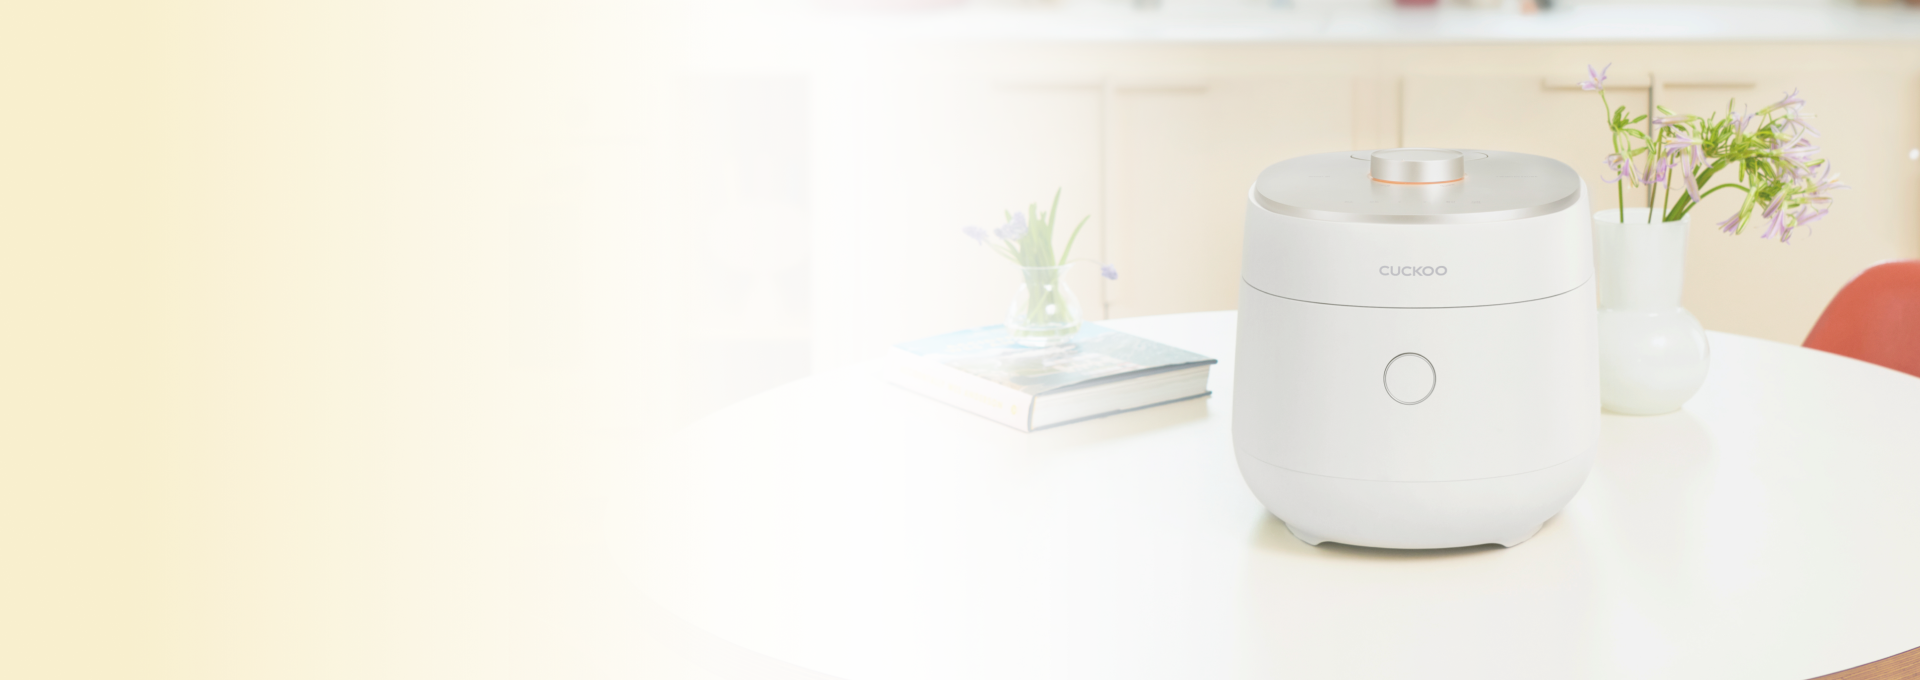
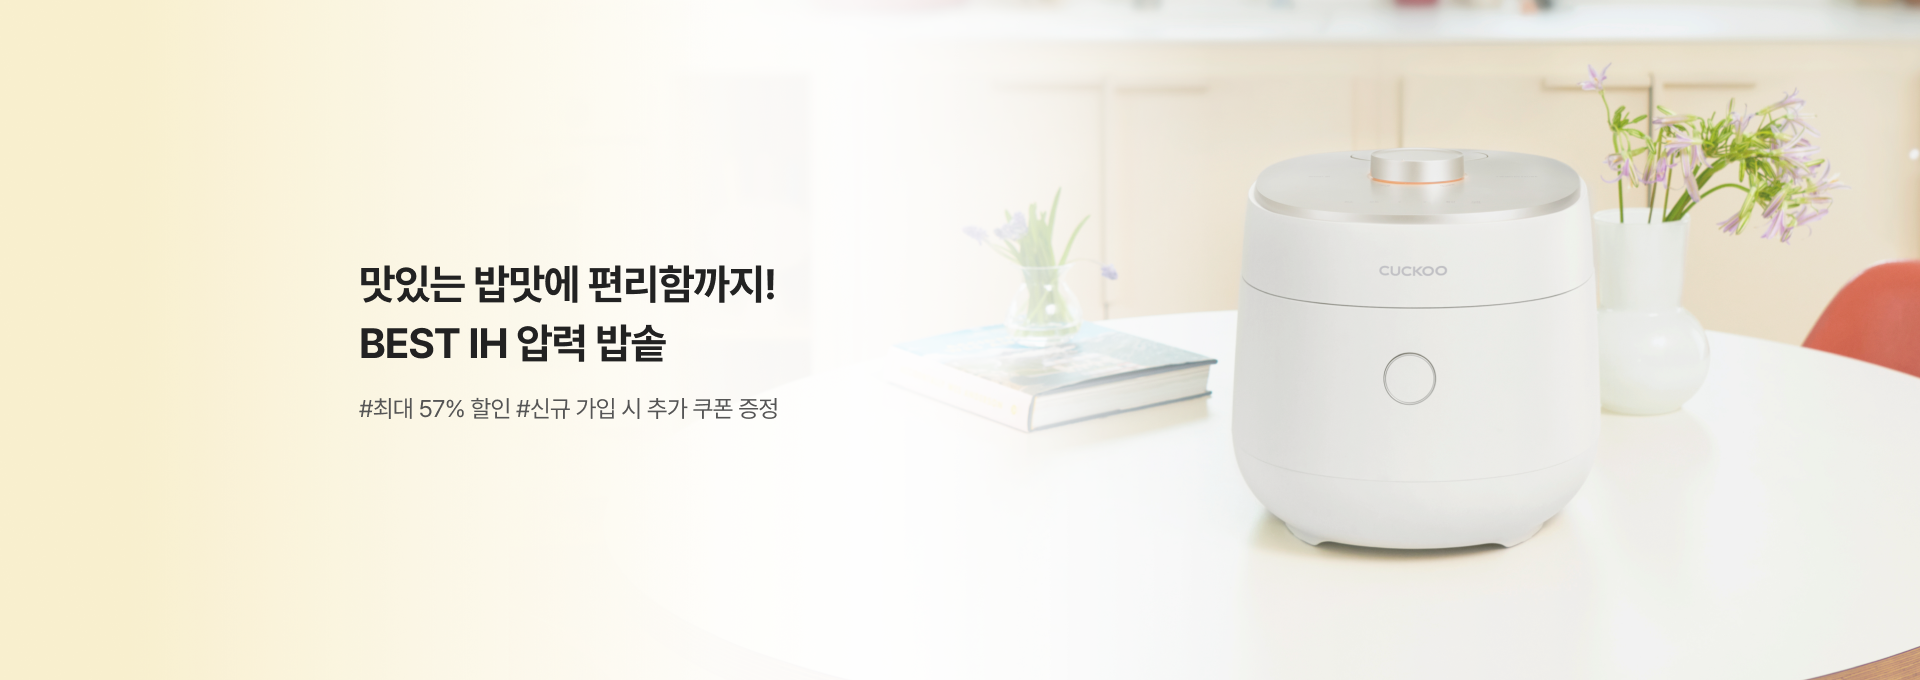
배너이미지 수정

Changed region(s): [[0.1875, 0.3706, 0.4062, 0.5559], [0.1875, 0.5868, 0.4062, 0.6176]]

diff --git a/index.js b/index.js
@@ -4,7 +4,7 @@ const app = express();
 const PORT = 4000;
 
 // 정적 파일 불러오기
-app.use(express.static(__dirname + "/resources/static/pc"));
+app.use(express.static(__dirname + "/pc"));
 
 //라우팅 정의
 app.get("/", (req, res) => {
